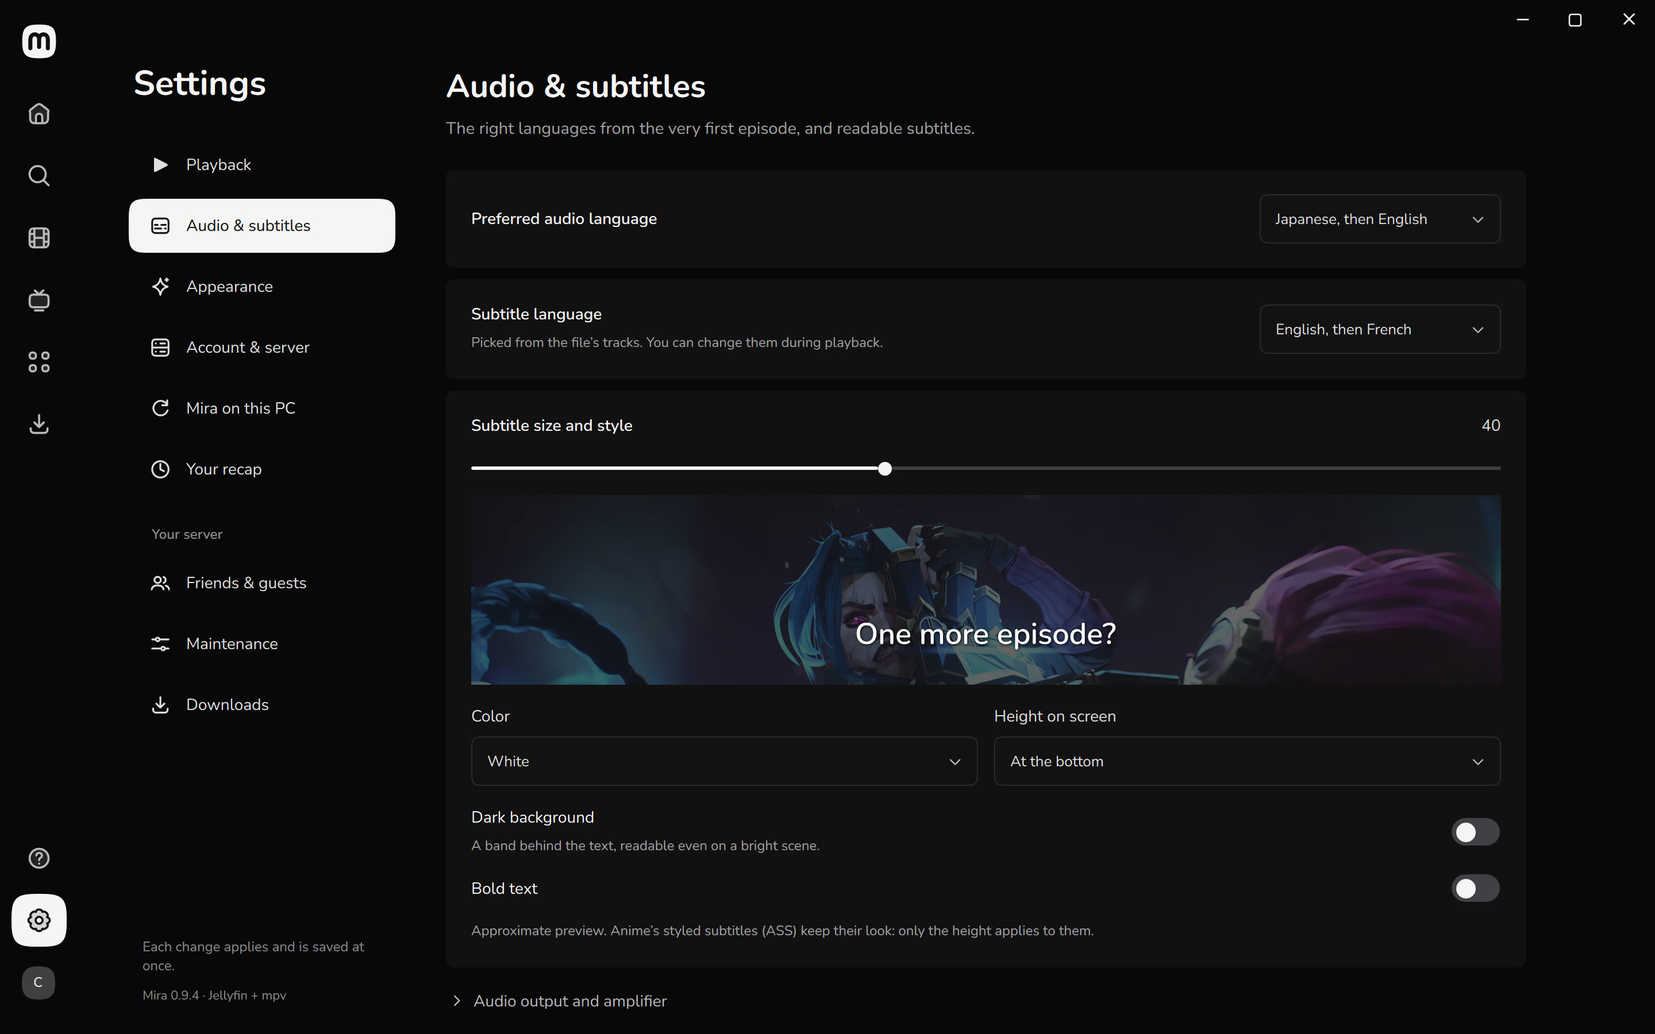
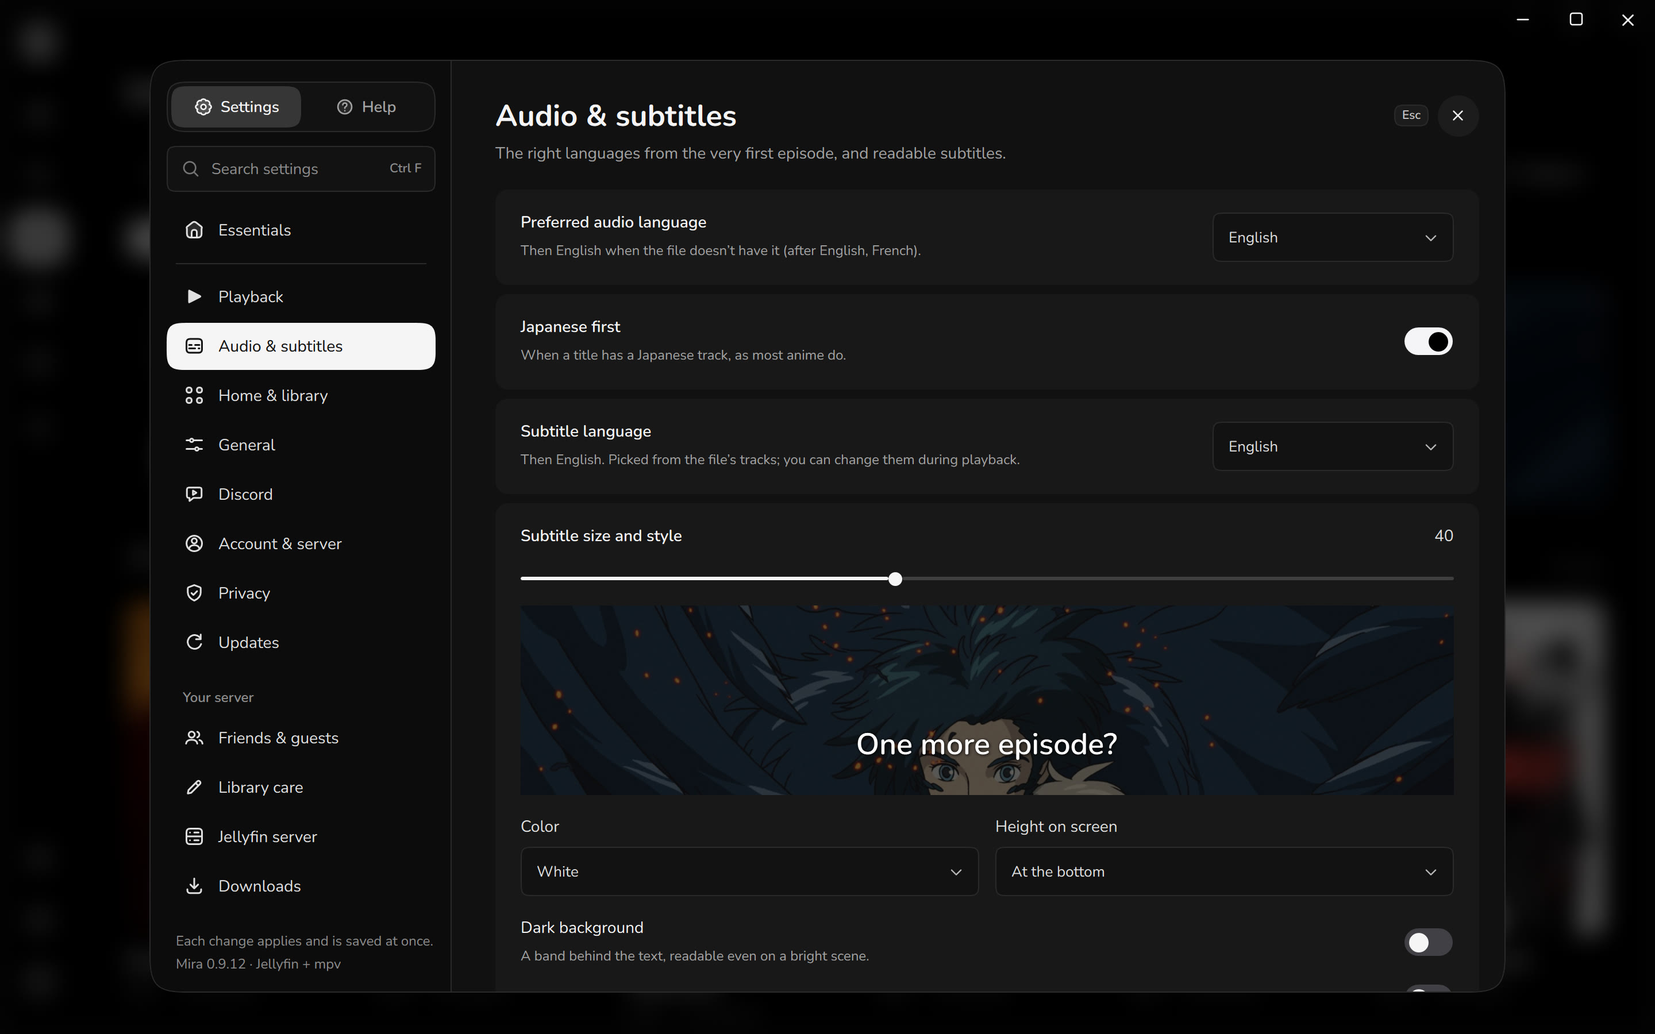
README captures on a fuller library: ogsas's films and series, the same film resumed on every app
The demonstration library (tools/banner/media.sh) grows from 20 films and 5 series to 42 and 11: Ghibli, anime,
neo-noir, science fiction and Tarantino. Howl's Moving Castle is the film resumed on Home whose page Windows, Mac and
iPhone capture (GALLERY_FILM); the banner's mini-player and player play Blade Runner 2049, a video made of its backdrop
(GALLERY_PLAYING, MIRA_GALLERY_PLAYING). No page of the captures says a size: the placeholder videos weigh a few
megabytes (TitleStorage.Shown, -mira-no-sizes on iPhone). The Windows job waits for the whole scan
(MIRA_GALLERY_TITLES) with the pointer off the window; Settings → Subtitles is taken before the banner's player, which
captured it black; the banner's screens gain the films further down, Settings → The essentials and Settings → Privacy;
stills.mjs writes every title's backdrop and poster with MIRA_STILLS_ALL=1. The README's captures refreshed, credits
updated.

Claude-Session: https://claude.ai/code/session_012iLBHytpj17j3BZw8Fr6BM

diff --git a/src/Mira.iOS/MiraUITests/MiraUITests.swift b/src/Mira.iOS/MiraUITests/MiraUITests.swift
@@ -766,7 +766,8 @@ final class MiraUITests: XCTestCase {
         let environment = ProcessInfo.processInfo.environment
         guard let server = environment["MIRA_GALLERY_SERVER"], !server.isEmpty else { throw XCTSkip("Only for gallery.yml") }
         let french = environment["MIRA_GALLERY_LANGUAGE"] == "fr"
-        let app = launch(language: french ? "fr" : "en", locale: french ? "fr_FR" : "en_US")
+        // No size on the pages: the library's placeholder videos weigh a few megabytes.
+        let app = launch(language: french ? "fr" : "en", locale: french ? "fr_FR" : "en_US", extra: ["-mira-no-sizes"])
         let address = app.textFields["login.address"]
         XCTAssertTrue(address.waitForExistence(timeout: 10), "No sign-in screen")
         focus(address)
@@ -782,13 +783,17 @@ final class MiraUITests: XCTestCase {
         capture("iphone-home")
 
         app.buttons["tab.movies"].tap()
-        XCTAssertTrue(app.buttons.matching(NSPredicate(format: "label BEGINSWITH 'Coco'")).firstMatch.waitForExistence(timeout: 15), "Movies shows no grid of films")
+        // Any film of the library's first ones, whatever the order.
+        let films = NSPredicate(format: "label BEGINSWITH 'Coco' OR label BEGINSWITH 'Dune' OR label BEGINSWITH 'Arrival' OR label BEGINSWITH 'Akira' OR label BEGINSWITH '5 Centimeters'")
+        XCTAssertTrue(app.buttons.matching(films).firstMatch.waitForExistence(timeout: 15), "Movies shows no grid of films")
         Thread.sleep(forTimeInterval: 5)
         capture("iphone-movies")
 
         app.buttons["tab.home"].tap()
-        let film = app.buttons.matching(NSPredicate(format: "label BEGINSWITH 'Spider-Man: Across the Spider-Verse'")).firstMatch
-        XCTAssertTrue(film.waitForExistence(timeout: 10), "No card for Spider-Man: Across the Spider-Verse on Home")
+        // The film resumed on Home (MIRA_GALLERY_FILM, the start of its name), the one Windows and Mac capture too.
+        let filmName = environment["MIRA_GALLERY_FILM"].flatMap { $0.isEmpty ? nil : $0 } ?? "Spider-Man: Across the Spider-Verse"
+        let film = app.buttons.matching(NSPredicate(format: "label BEGINSWITH %@", filmName)).firstMatch
+        XCTAssertTrue(film.waitForExistence(timeout: 10), "No card for \(filmName) on Home")
         tapCard(app, film)
         XCTAssertTrue(app.descendants(matching: .any)["title.name"].waitForExistence(timeout: 10), "The film's page did not open")
         Thread.sleep(forTimeInterval: 5)

diff --git a/src/Mira.iOS/Mira/Home/StorageSize.swift b/src/Mira.iOS/Mira/Home/StorageSize.swift
@@ -45,9 +45,12 @@ enum StorageSize {
         return any ? total : nil
     }
 
-    /// « 850 MB », « 14 GB », « 1.4 TB » (RemoteLines.size, as Windows writes a size); nil for no size.
+    /// Never said under the README's captures (`-mira-no-sizes`, testGallery): their placeholder videos weigh a few megabytes.
+    private static let hidden = ProcessInfo.processInfo.arguments.contains("-mira-no-sizes")
+
+    /// « 850 MB », « 14 GB », « 1.4 TB » (RemoteLines.size, as Windows writes a size); nil for no size (or none shown).
     static func text(_ bytes: Int64?) -> String? {
-        guard let bytes, bytes > 0 else { return nil }
+        guard !hidden, let bytes, bytes > 0 else { return nil }
         return RemoteLines.size(bytes)
     }
 

diff --git a/src/Mira.Desktop/Checks/MainWindow.ReadmeGallery.cs b/src/Mira.Desktop/Checks/MainWindow.ReadmeGallery.cs
@@ -27,6 +27,8 @@ public partial class MainWindow
             if (_demo || string.IsNullOrEmpty(server) || string.IsNullOrEmpty(user) || password is null || !_args.Contains("--data"))
                 throw new InvalidOperationException("The README's captures need MIRA_GALLERY_SERVER, _USER and _PASSWORD, an isolated --data profile and no demo.");
             _fallbackRefresh.Stop(); _searchTimer.Stop(); Width = 1440; Height = 900; _artworkScale = 2;
+            // The library's placeholder videos weigh a few megabytes: no size on the pages.
+            TitleStorage.Shown = false;
             Connection connection;
             using (var client = new JellyfinClient(new(server, "", user, "", _profile.DeviceId))) connection = await client.LoginAsync(user, password);
             _profile.SaveConnection(connection);
@@ -47,9 +49,18 @@ public partial class MainWindow
             DetailOverlay.Visibility = Visibility.Collapsed;
             ResetFilters(); _catalog.View = "Movie"; await NavigateLibraryAsync(); SmoothScroll.Jump(LibraryScroll);
             await Shot("windows-films");
-            // The release banners' own screens (gallery.yml for banner.yml), never the README's.
-            if (Environment.GetEnvironmentVariable("MIRA_GALLERY_BANNER") == "1") await BannerShotsAsync(output, Shot);
+            // Before the banner's screens: its player would cover the window.
             Settings_Click(this, new()); SelectSettingsTab("subtitles"); await Shot("windows-subtitles");
+            AutoSaveSettings(); SettingsOverlay.Visibility = Visibility.Collapsed;
+            // The release banners' own screens (gallery.yml for banner.yml), never the README's.
+            if (Environment.GetEnvironmentVariable("MIRA_GALLERY_BANNER") == "1")
+            {
+                // The films further down, a wall of posters without the page's head.
+                LibraryScroll.UpdateLayout(); SmoothScroll.Jump(LibraryScroll, 560); await Task.Delay(600);
+                await Shot("windows-films-more");
+                SmoothScroll.Jump(LibraryScroll);
+                await BannerShotsAsync(output, Shot);
+            }
             await File.WriteAllTextAsync(Path.Combine(output, "gallery-result.txt"), $"PASS: Mira signed in to {server} as {user}.");
         }
         catch (Exception ex)
@@ -63,7 +74,7 @@ public partial class MainWindow
     /// The screens only a release's banner shows (tools/banner/plan.mjs): the films' filters open, a series' missing
     /// episodes at their place (Invincible's, from tools/web/fake-tvdb), the mini-player out against the right edge over
     /// Home, its controls shown, playing a film whose video gallery.yml made of its backdrop (libmpv as Mira installs it),
-    /// then the player whole (windows-player).
+    /// then the player whole (windows-player). Settings too: The essentials, Privacy and Discord.
     /// </summary>
     private async Task BannerShotsAsync(string output, Func<string, Task> shot)
     {
@@ -81,13 +92,21 @@ public partial class MainWindow
 
         await DownloadsShotAsync(shot);
 
-        // Settings → Discord, its live preview of the card: before the player, which would cover the window.
-        Settings_Click(this, new()); SelectSettingsTab("discord"); await Task.Delay(1500);
+        // Settings: The essentials, Privacy, then Discord and its live preview of the card: before the player, which
+        // would cover the window.
+        Settings_Click(this, new()); SelectSettingsTab("home"); await Task.Delay(1500);
+        await shot("windows-settings");
+        SelectSettingsTab("privacy"); await Task.Delay(1500);
+        await shot("windows-privacy");
+        SelectSettingsTab("discord"); await Task.Delay(1500);
         await shot("windows-discord");
         AutoSaveSettings(); SettingsOverlay.Visibility = Visibility.Collapsed;
 
         _catalog.View = "home"; _catalog.ParentId = null; await NavigateLibraryAsync(); SmoothScroll.Jump(LibraryScroll);
-        var film = _catalog.Resume.FirstOrDefault(x => x.Type == "Movie" && x.Name.Contains("Across the Spider-Verse", StringComparison.Ordinal))
+        // The film whose video gallery.yml made of its backdrop (MIRA_GALLERY_PLAYING, its name without punctuation).
+        static string Letters(string text) => string.Concat(text.Where(char.IsLetterOrDigit).Select(char.ToLowerInvariant));
+        var playing = Letters(Environment.GetEnvironmentVariable("MIRA_GALLERY_PLAYING") is { Length: > 0 } named ? named : "Across the Spider-Verse");
+        var film = _catalog.Resume.FirstOrDefault(x => x.Type == "Movie" && Letters(x.Name).Contains(playing, StringComparison.Ordinal))
             ?? _catalog.Resume.FirstOrDefault(x => x.Type == "Movie") ?? throw new InvalidOperationException("No film in « Continuer à regarder ».");
         _settings.Volume = 0; VolumeSlider.Value = 0;
         // The pointer resting on it, as far as the mini-player knows: it stays out, its controls with it.

diff --git a/src/Mira.Core/TitleStorage.cs b/src/Mira.Core/TitleStorage.cs
@@ -49,8 +49,14 @@ public static class TitleStorage
         return sizes;
     }
 
-    /// <summary>« 850 Mo », « 14,2 Go », « 312 Go », « 1,4 To »; null for no size.</summary>
-    public static string? Text(long? bytes) => bytes is > 0 ? OfflineCopies.SizeText(bytes.Value) : null;
+    /// <summary>
+    /// False under the README's captures (--readme-gallery, --gallery): their placeholder videos weigh a few megabytes,
+    /// which no page says.
+    /// </summary>
+    public static bool Shown { get; set; } = true;
+
+    /// <summary>« 850 Mo », « 14,2 Go », « 312 Go », « 1,4 To »; null for no size (or none shown).</summary>
+    public static string? Text(long? bytes) => Shown && bytes is > 0 ? OfflineCopies.SizeText(bytes.Value) : null;
 }
 
 /// <summary>

diff --git a/src/Mira.Mac/Checks/Gallery.cs b/src/Mira.Mac/Checks/Gallery.cs
@@ -24,6 +24,8 @@ public static class Gallery
             if (string.IsNullOrEmpty(server) || string.IsNullOrEmpty(user) || password is null || !args.Contains("--data"))
                 throw new InvalidOperationException("The gallery needs MIRA_GALLERY_SERVER, _USER and _PASSWORD and an isolated --data profile.");
             window.Width = 1440; window.Height = 900;
+            // The library's placeholder videos weigh a few megabytes: no size on the pages.
+            TitleStorage.Shown = false;
             window.ShowLogin();
             await Until(() => window.Login is not null, 10);
             await window.Login!.SignInAsync(server, user, password);

diff --git a/CLAUDE.md b/CLAUDE.md
@@ -30,7 +30,7 @@ Jellyfin (party, invités, relais, sous-titres). Pas d'Android pour l'instant ; 
 - Tests (2026-11-09 : 287 réussis sous Linux dans `tests/Mira.Core.Tests`, exécution locale, 240 avec le vrai nœud de Tailscale intégré : `MIRA_TAILNET_HELPER=<mira-tailscale> MIRA_TAILNET_TESTNET=<mira-testnet>`, compilés dans `src/Mira.Tailscale` par `go build -tags "$(cat build-tags.txt)" -ldflags "-X main.version=test" ./cmd/mira-tailscale` et `./cmd/mira-testnet` ; le bilan final de chaque exécution donne le compte, ne l'additionne pas) : `dotnet run --project tests/Mira.Tests/Mira.Tests.csproj -c Release --no-build` (Windows) ; partout `dotnet run --project tests/Mira.Core.Tests/Mira.Core.Tests.csproj -c Release`.
 - Extension : `tools/web/package.sh <x.y.z> [base]` → `dist/web/` (zip et manifeste du dépôt) ; médias `tools/web/media.sh <dossier>` ; Jellyfin neuf `node tools/web/setup.mjs <serveur> <médias> <user> <mdp> [manifeste]` ; contrôle par son API (party, invités, relais, sous-titres, pages) `node tools/extension/check.mjs <serveur> <user> <mdp> <dossier>`, lancé par `web.yml` sur Jellyfin 10.9.11, 10.10.7, 12.1, 12.4 et `latest` (`latest` ne fait échouer que l'exécution du lundi). `web.yml` garde son nom et son artefact `Mira-web-release` (lus par `release.ps1` et `release-check.ps1`).
 - Conteneur cloud : Jellyfin par Docker (`dockerd &`, `jellyfin/jellyfin:12.1.20260915-010956`, `--network host`) ; SDK .NET de Microsoft depuis les `.deb` de packages.microsoft.com (`debian/12` : ni jammy ni noble n'ont .NET 10 ; builds.dotnet.microsoft.com bloqué), `dpkg-deb -x`, puis `-p:EnableWindowsTargeting=true` (compile seulement).
-- Captures du README (`docs/screenshots/readme/`) : `gallery.yml` à la demande (`actions_run_trigger` sur une branche : JPEG poussés sur elle ; jamais sur PR, son propre commit la relancerait) ; Windows : Jellyfin 12.1 compilé depuis ses sources, `Mira.exe --data <p> --readme-gallery <dossier>` (vraie fenêtre connectée, ×2) ; iPhone (job `iphone`, macos-26) : le même Jellyfin 12.1 compilé sur le Mac (ffmpeg de Homebrew), l'app sur le simulateur iPhone 17 Pro (1206 × 2622) par `testGallery` de `MiraUITests` (sauté sans `MIRA_GALLERY_SERVER`, donc par `ios.yml`), captures `iphone-home`, `-movies`, `-film`, `-together`, `-series` (aperçus `MIRA-PREVIEW` dans le journal) ; le site en tire ses images (`tools/site/images.py`) ; bibliothèque de démonstration de `tools/banner/media.sh` (Arcane, Spider-Verse… vidéos noires nommées pour TMDb, passages dans `tools/banner/traces.json`, comme les bannières), `GALLERY_LANGUAGE`/`language` = `en` par défaut (`fr` pour `docs/README.fr.md`), affiches de TMDb (inaccessible depuis le conteneur cloud) ; Mac pas capturé (le README n'a pas de capture Mac).
+- Captures du README (`docs/screenshots/readme/`) : `gallery.yml` à la demande (`actions_run_trigger` sur une branche : JPEG poussés sur elle ; jamais sur PR, son propre commit la relancerait) ; Windows : Jellyfin 12.1 compilé depuis ses sources, `Mira.exe --data <p> --readme-gallery <dossier>` (vraie fenêtre connectée, ×2) ; iPhone (job `iphone`, macos-26) : le même Jellyfin 12.1 compilé sur le Mac (ffmpeg de Homebrew), l'app sur le simulateur iPhone 17 Pro (1206 × 2622) par `testGallery` de `MiraUITests` (sauté sans `MIRA_GALLERY_SERVER`, donc par `ios.yml`), captures `iphone-home`, `-movies`, `-film`, `-together`, `-series` (aperçus `MIRA-PREVIEW` dans le journal) ; le site en tire ses images (`tools/site/images.py`) ; bibliothèque de démonstration de `tools/banner/media.sh` (42 films, 11 séries depuis le 2026-11-15 : Ghibli, animé, néo-noir, SF, Tarantino, goûts d’ogsas ; Howl’s Moving Castle repris sur les trois apps (`GALLERY_FILM`), lecteur et mini-lecteur des bannières sur Blade Runner 2049 (`GALLERY_PLAYING`) ; aucune taille de fichier sur les pages (`TitleStorage.Shown`, iPhone `-mira-no-sizes`) ; un nom qui ne trouve pas le bon titre sur TMDb (Nausicaä = « Warriors of the Wind » en anglais) : le remplacer ; vidéos noires nommées pour TMDb, passages dans `tools/banner/traces.json`, comme les bannières), `GALLERY_LANGUAGE`/`language` = `en` par défaut (`fr` pour `docs/README.fr.md`), affiches de TMDb (inaccessible depuis le conteneur cloud) ; Mac pas capturé (le README n'a pas de capture Mac).
 - Bannière de release (`tools/banner/`, `docs/releases/x.y.z.jpg`) : UNE BANNIÈRE PROPRE À CHAQUE RELEASE (ogsas, 2026-11-14 : la première de la 0.9.9 reprenait la fiche d'Arcane de la 0.9.8, tailles des vidéos factices comprises) : chaque morceau montre un point de cette version (`point` ou `caption`), aucun ne recoupe de plus de moitié un morceau de la même capture dans la release d'avant, pas deux fois sans bande (`plan.mjs`, refusé dès le job `plan` de `banner.yml`) ; la dernière version de `WhatsNew.json` doit avoir son entrée et celle d'avant la garder (`plan.test.mjs`, job `portable`) ; `release.ps1` s'arrête sans `docs/releases/x.y.z.jpg` ou si c'est le fichier de la version d'avant (`-NoBanner` : sans) ; vidéos de la bibliothèque des bannières = petits fichiers noirs : jamais un morceau qui montre des tailles de fichier (fiche, épisodes). Sur la branche de préparation, une entrée de `tools/banner/scenes.json` (format en tête de `plan.mjs`) : « Gros plan » (`closeup`, x.y.z avec z > 0, choisi par ogsas le 2026-11-15, maquettes `/mnt/project-files/banniere-release/propositions-2026-11-15/`) = `{ film, point, shot, at, size, scale }` : une nouveauté, une seule chose de l'app entière à droite (`size` en unités de l'app, 636 × 500 px de bannière au plus, `scale` 0,45 à 1,5, centrée entre x = 500 et 1136 ou `right`), éclairée par la lueur floue du fond de `film` (un titre de `tools/banner/media.sh` par le nom de son dossier : `howl-s-moving-castle` ; sinon FNV-1a, jamais celui d'avant ni `spirited-away`), titre = `en.title` du point (`title` à la main), texte = son `en.text` (`say` à la main, 4 lignes au plus), « Also » = les autres titres (`also`, coupé à droite faute de place) ; sans `shot` = l'Accueil de Windows entier ; jamais la même chose (recoupée à plus de moitié), l'Accueil ni le film deux fois de suite. `film` (bande de morceaux légendés, `band`) reste pour les entrées 0.9.5 à 0.9.12 seulement, puis `banner.yml` (`actions_run_trigger`, entrée `version`, ~35 min avec Windows) : `plan.mjs` dit le modèle (`closeup` pour x.y.z avec z > 0 ; `lineup` pour x.y.0 : Windows, Mac et iPhone devant un film, réglé par `lineup: { lead, back, phone, focus }` ; `template` pour forcer) et les captures utiles ; refus clairs dans `plan.mjs` (tests `node --test tools/banner/plan.test.mjs`, job `portable`), puis au dessin avec les vraies tailles (`closeup` : titre en 3 lignes au plus, texte en 4, « Also » à l'écart de la chose, chose hors de sa capture) ; Windows et iPhone = jobs de `gallery.yml` appelés (`windows_only`, `iphone_only`), Mac = `Mira --gallery <dossier>` (Avalonia sous `xvfb-run`, `AVALONIA_GLOBAL_SCALE_FACTOR=2`, feux dessinés par la bannière quand un morceau part de [0, 0], pas d'image mpv sous Linux) ; prises propres aux bannières (`SHOTS` de `plan.mjs`) : `windows-filters`/`mac-filters` (panneau Filtrer ouvert), `windows-missing`/`mac-missing` (épisodes manquants d'Invincible à leur place, par `tools/web/fake-tvdb` dans les extensions du Jellyfin de `banner.yml` et de `gallery.yml` avec `windows_only`), `windows-mini` (mini-lecteur sorti sur l'Accueil, commandes montrées : libmpv par `tools/mpv-engine.ps1` dans le profil, vidéo de Spider-Verse refaite de son fond par ffmpeg, image de mpv (`screenshot-to-file`) posée dans la capture par `CaptureWithVideoAsync`) ; `MIRA_GALLERY_BANNER=1` les demande à `--readme-gallery`, jamais pour le README, fonds `still-<titre>.jpg` de chaque titre par `tools/banner/stills.mjs` (API de Jellyfin) ; commit sur la branche par `GITHUB_TOKEN` (qui ne relance pas la CI : la lancer avant le dernier commit de la PR). `release.ps1` la met en tête des notes (`notes --banner`, image servie depuis le tag), sinon avertit. Locale : `PLAYWRIGHT=… node tools/banner/banner.mjs <x.y.z> <captures> <out.jpg> [closeup|film|lineup]` (captures 0.9.12 et fonds `backdrop-*` à renommer `still-*` : `/mnt/project-files/captures-2026-11-15/`).
 - winget (2026-11-07, piste 14 de l'audit) : `winget.yml` à chaque release publiée (et `workflow_dispatch`, entrées `version`, `submit` ; sur PR qui touche `tools/winget`, le workflow ou `Mira.iss` : sans soumission) : manifestes `sasou-web.Mira` (schéma 1.10.0 : le winget 1.11 des runners refuse 1.12 d’un avertissement, version + installateur Inno `Scope: user` + en-US + fr-FR, notes de `WhatsNew.json` au tag, code produit = `AppId` de `Mira.iss` + `_is1`) par `node tools/winget/manifests.mjs <x.y.z> <sha256> <date> <dossier>` (tests `manifests.test.mjs`), installateur vérifié trois fois (octets, `.sha256`, digest GitHub), puis sur Windows `winget validate`, vraie installation et désinstallation depuis les manifestes, puis `wingetcreate submit` (1.12.13.0, SHA-256 épinglé + signature Microsoft) vers microsoft/winget-pkgs ; secret `WINGET_TOKEN` (jeton classique de sasou-web, `public_repo` ; absent = rien de soumis) ; version déjà dans winget-pkgs = rien ; tant que Mira n'y est pas et qu'une PR `sasou-web.Mira` attend un modérateur, rien de soumis (sinon une PR « New package » de plus par release : 0.9.5 à 0.9.7, 2026-11-13). winget-pkgs n'exige aucune signature, mais tout installateur signalé par un antivirus de sa validation est refusé (faux positif = https://www.microsoft.com/wdsi/filesubmission puis `@wingetbot run` par un modérateur) ; CLA de Microsoft à accepter par sasou-web à la première PR. Runner : winget 1.11 (schéma 1.12 = avertissement, code 0x8A150028), installateur marqué « Internet » par winget = invite « Avertissement de sécurité » invisible qui bloque Setup sans fin (`LowRiskFileTypes` `.exe` dans le job), `--accept-source-agreements` aussi pour `uninstall` (msstore).
 - Annonce Discord (2026-11-05, demandée par ogsas) : `discord.yml` à chaque release publiée (et `workflow_dispatch`, entrée `version`, `dry_run`) poste par webhook dans #releases un embed : bannière `docs/releases/x.y.z.jpg` du tag, résumé et points anglais de `WhatsNew.json`, lien de la release (`tools/discord/announce.mjs`, tests `announce.test.mjs`) ; secret `DISCORD_RELEASES_WEBHOOK` (absent = message seulement affiché) ; script pris sur la branche par défaut, textes au tag. Le webhook GitHub natif (`…/github`) de #releases est à retirer (doublon).

diff --git a/docs/README.fr.md b/docs/README.fr.md
@@ -61,7 +61,7 @@ Mira pour iPhone est une app native, avec son propre lecteur (image dans l’ima
   <tr><td align="center">Tous tes films</td><td align="center">Langues et sous-titres</td></tr>
 </table>
 
-<sub>Captures de la vraie application, connectée à un serveur Jellyfin de démonstration (vidéos factices ; affiches et résumés fournis par TMDb). <i>Arcane</i> © Riot Games, Fortiche ; <i>Spider-Man : Across the Spider-Verse</i> © Sony Pictures Animation ; les autres titres appartiennent à leurs ayants droit.</sub>
+<sub>Captures de la vraie application, connectée à un serveur Jellyfin de démonstration (vidéos factices ; affiches et résumés fournis par TMDb). <i>Le Château ambulant</i> © Studio Ghibli ; <i>Arcane</i> © Riot Games, Fortiche ; <i>Cowboy Bebop</i> © Sunrise ; les autres titres appartiennent à leurs ayants droit.</sub>
 
 ## Installer
 

diff --git a/README.md b/README.md
@@ -61,7 +61,7 @@ Mira for iPhone is a native app with its own player (Picture in Picture, AirPlay
   <tr><td align="center">All your films</td><td align="center">Languages and subtitles</td></tr>
 </table>
 
-<sub>Captures of the real application, connected to a demo Jellyfin server (placeholder videos; posters and summaries from TMDb). <i>Arcane</i> © Riot Games, Fortiche; <i>Spider-Man: Across the Spider-Verse</i> © Sony Pictures Animation; the other titles belong to their rights holders.</sub>
+<sub>Captures of the real application, connected to a demo Jellyfin server (placeholder videos; posters and summaries from TMDb). <i>Howl's Moving Castle</i> © Studio Ghibli; <i>Arcane</i> © Riot Games, Fortiche; <i>Cowboy Bebop</i> © Sunrise; the other titles belong to their rights holders.</sub>
 
 ## Install
 
